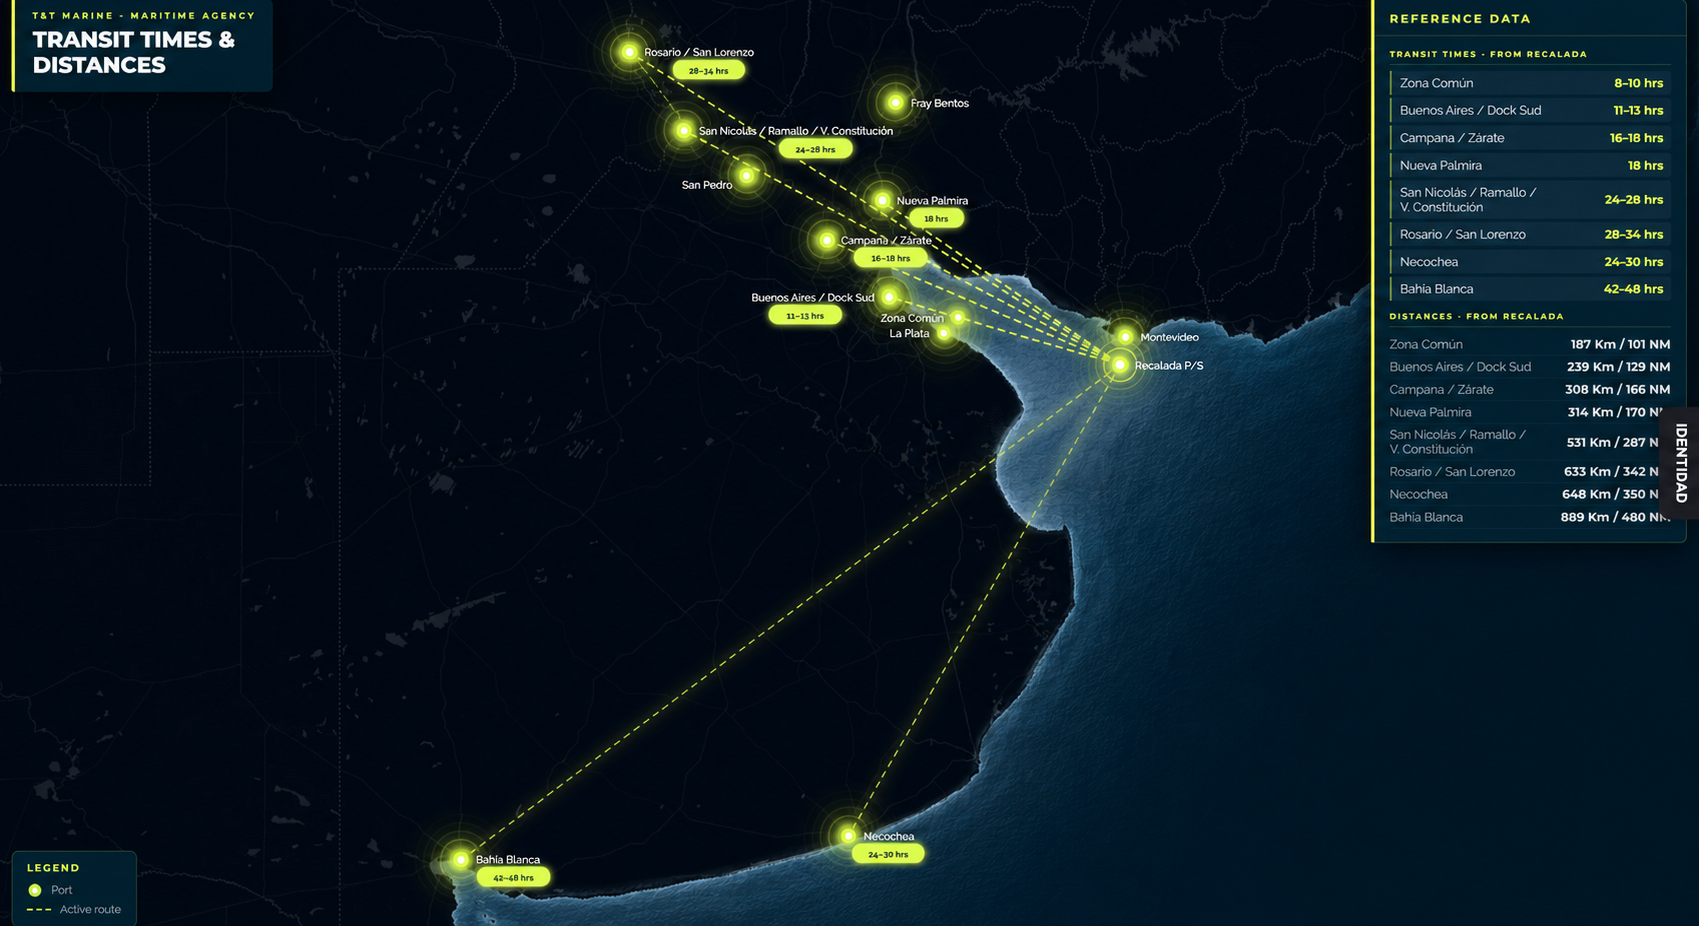
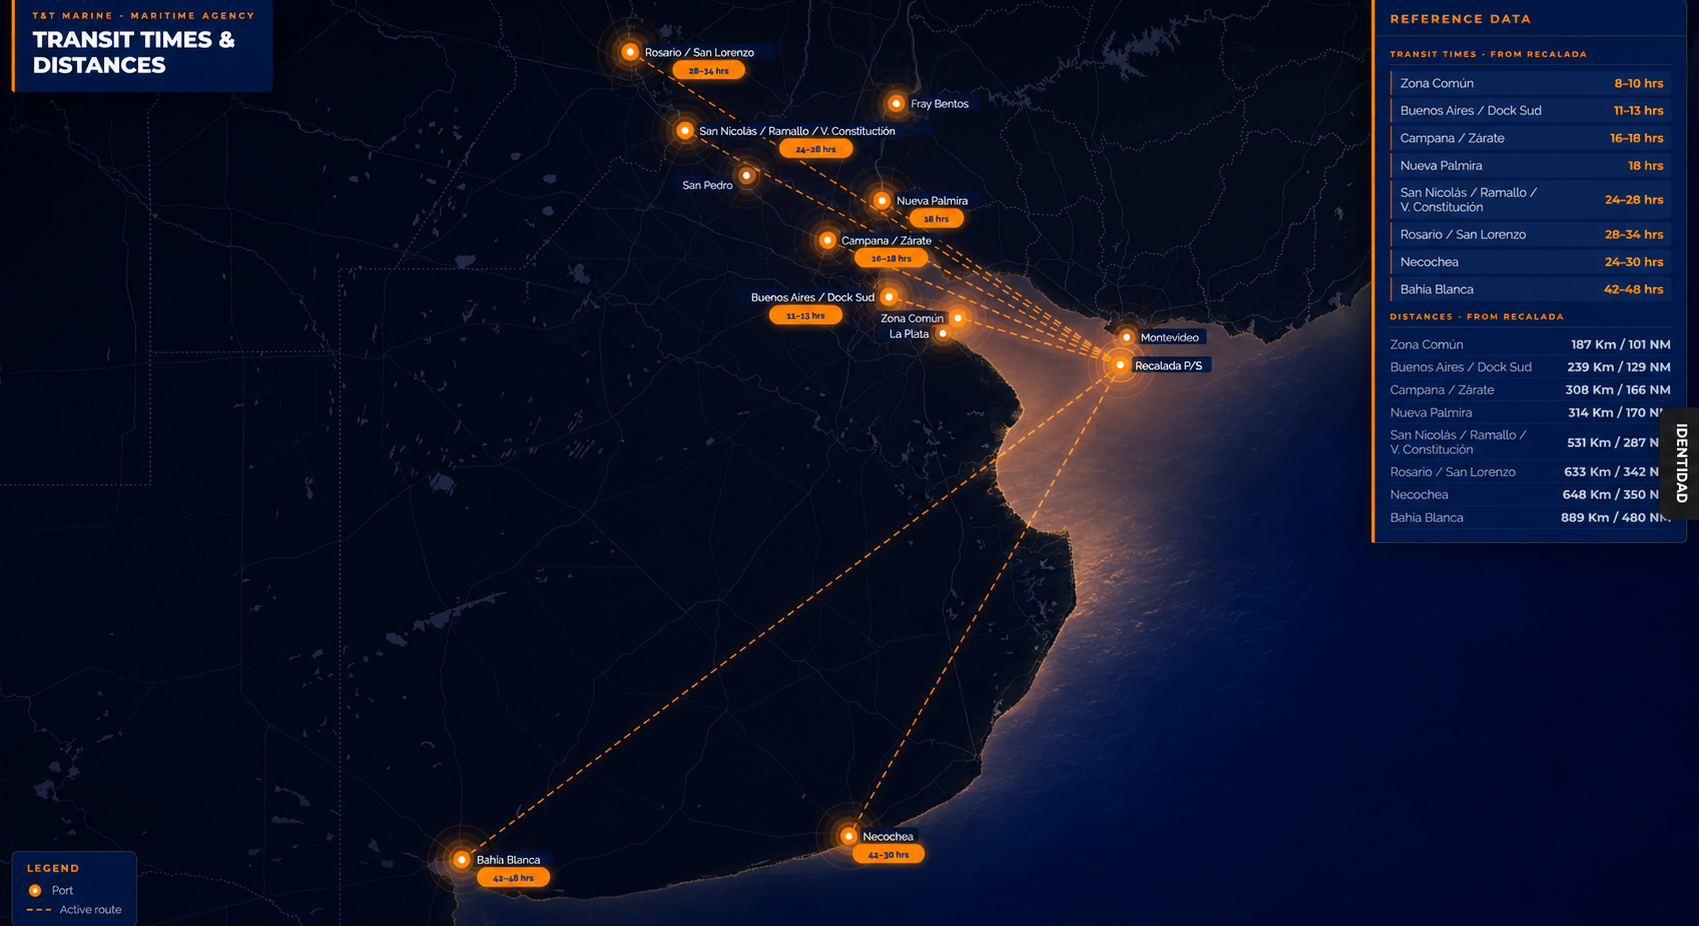
Fix map image palette mapping and add Palette E
Corrected assignment: old C was actually D, old D was actually E.
Added new Palette C image (verde agua). All 6 palettes now have
their own map image.

Changed region(s): [[0.2496, 0.0, 1.0, 1.0], [0.0, 0.0, 0.156, 0.0907], [0.0, 0.9374, 0.0624, 0.9978]]

diff --git a/index.html b/index.html
@@ -981,7 +981,7 @@ function applyPalette(key, lightOverride) {
     lBtn.classList.toggle('active', isLight);
   }
   // Swap static map image per palette
-  const MAP_IMAGES = { original:'map-original.png', a:'map-a.png', b:'map-b.png', c:'map-c.png', d:'map-d.png', e:'map-original.png' };
+  const MAP_IMAGES = { original:'map-original.png', a:'map-a.png', b:'map-b.png', c:'map-c.png', d:'map-d.png', e:'map-e.png' };
   const mapImg = document.getElementById('map-img');
   if (mapImg) mapImg.src = 'assets/' + (MAP_IMAGES[key] || MAP_IMAGES.original);
 }